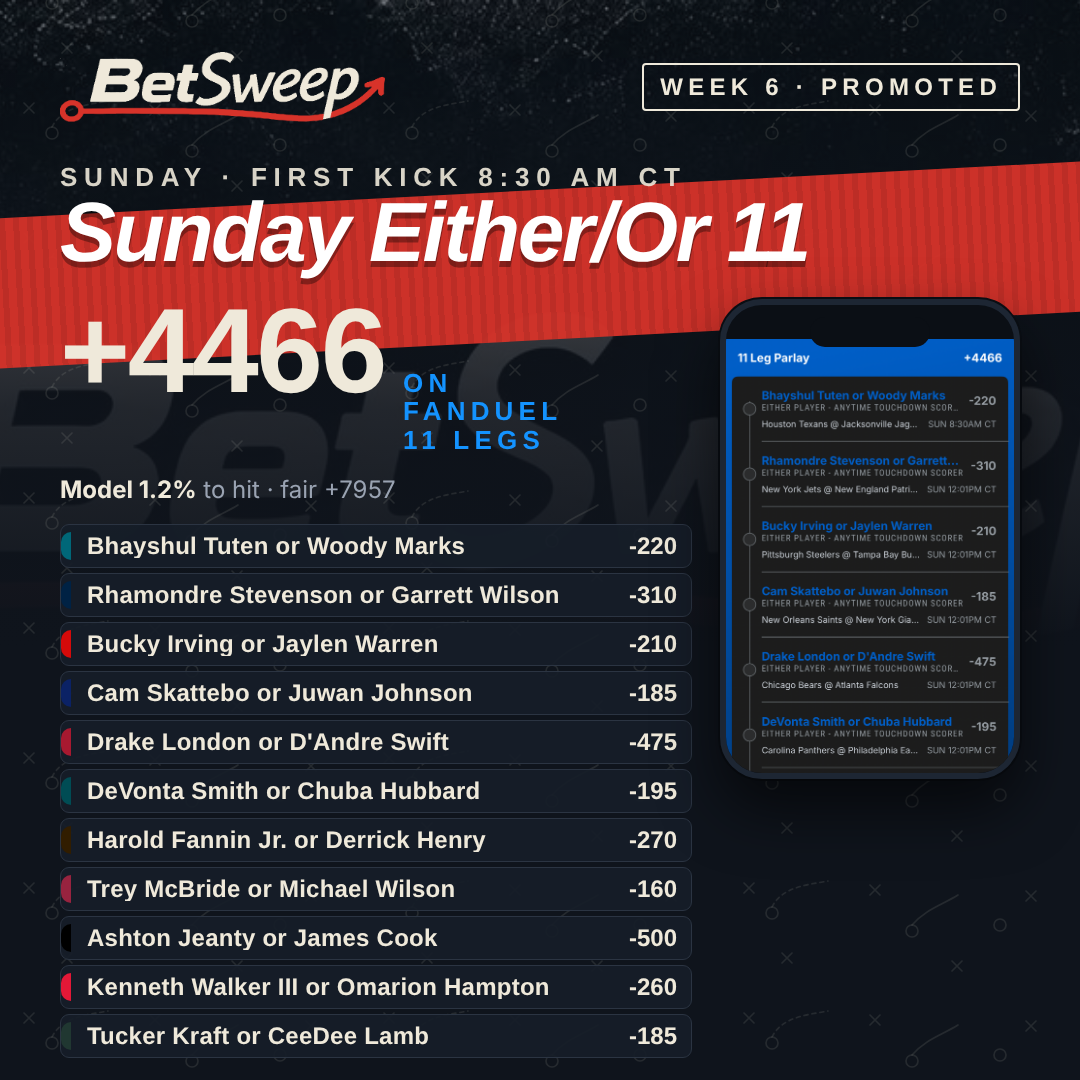
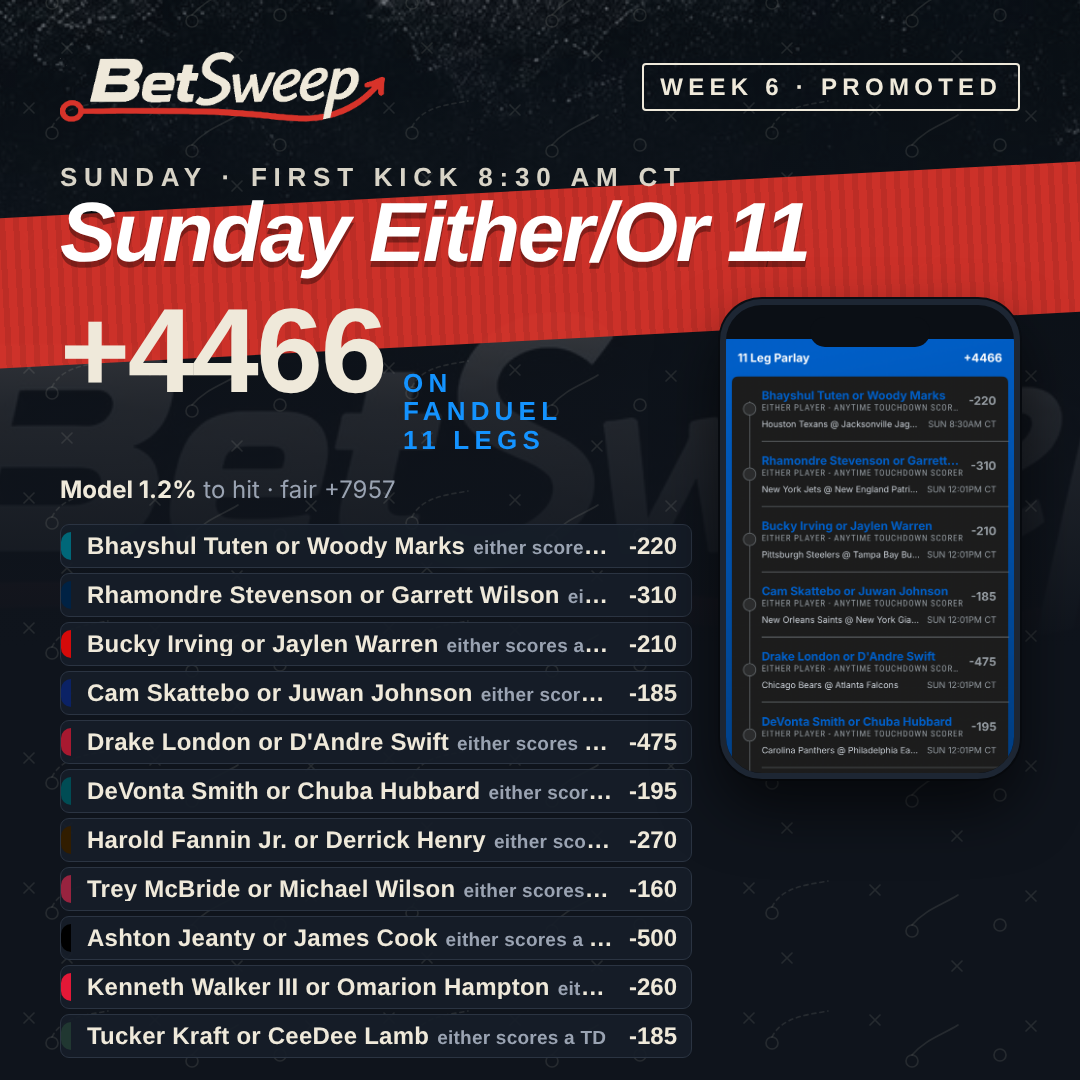
Promos: show the market on every leg for long slips (home card + poster)
Claude-Session: https://claude.ai/code/session_01Pqo4PUB5f8JqeHqFrErqwg

diff --git a/index.html b/index.html
@@ -80,7 +80,7 @@ footer .tag i{color:var(--red);font-style:normal}
 .promo .pl{list-style:none;margin:0 16px;padding:0;border-top:1px solid var(--line)}
 .promo .pl li{display:grid;grid-template-columns:minmax(0,1fr) auto;gap:2px 10px;padding:8px 0;border-bottom:1px solid var(--line);font-size:14px}
 .promo .pl b{font-family:var(--display);font-weight:700;font-size:17px;letter-spacing:.01em} .promo .pl small{color:var(--mute);font-size:12px} .promo .pl .o{font-family:var(--display);font-weight:800;font-size:17px;font-variant-numeric:tabular-nums} .promo .pl .mp{grid-column:2;font-size:11.5px;color:var(--good);text-align:right}
-.promo .pl.many li{padding:6px 0} .promo .pl.many b{font-size:15px} .promo .pl.many small{display:none} .promo .pl.many .mp{display:none}
+.promo .pl.many li{padding:5px 0} .promo .pl.many b{font-size:15px} .promo .pl.many small{font-size:11.5px} .promo .pl.many .mp{display:none}
 .promo .pf{display:grid;grid-template-columns:auto 1fr;gap:4px 14px;align-items:end;padding:12px 16px 4px}
 .promo .pf .big{font-family:var(--display);font-weight:800;font-size:44px;line-height:.9} .promo .pf .big small{display:block;font-size:10.5px;letter-spacing:.18em;text-transform:uppercase;color:#1493ff;font-weight:700;margin-bottom:4px}
 .promo .pf .md{font-size:13px;color:var(--mute);line-height:1.4} .promo .pf .md b{color:var(--ink)}
@@ -179,7 +179,7 @@ body.compact .card:not(.expanded) > .tick:not([hidden]){display:grid}
 <section class="pitch"><div class="card"><img class="mark" src="/favicon.png" alt="">
  <h1>The model's picks, <span>graded against the sportsbooks</span> every week.</h1>
  <p class="lede">BetSweep projects every NFL skill player, prices every FanDuel prop against those projections, and shows you the receipts afterward. Boards land Thursday morning, refresh through Sunday's inactives, and get graded Tuesday.</p>
- <div class="stats"><span><b>Week 6</b> on the board</span><span><b>14</b> games</span><span><b>3,310</b> FanDuel legs priced</span><span>updated Sat 10/17 3:24 PM CT</span></div>
+ <div class="stats"><span><b>Week 6</b> on the board</span><span><b>14</b> games</span><span><b>3,310</b> FanDuel legs priced</span><span>updated Sat 10/17 3:39 PM CT</span></div>
  <div class="social"><a href="https://x.com/bet_sweep" target="_blank" rel="noopener">X <small>@bet_sweep</small></a><a href="https://www.instagram.com/bet_sweep" target="_blank" rel="noopener">Instagram <small>@bet_sweep</small></a></div>
 </div></section>
 <section class="sec" id="promo"><h2 class="t">Promoted bets</h2><div class="promos"><article class="promo" data-first-ko="1792353900000" data-last-ko="1792369200000"><div class="ph"><small>Promoted</small><span class="st" data-role="pst">Pregame</span></div><h3>Sunday TD 4</h3><div class="meta">Week 6 · 4 legs</div><ul class="pl"><li><b>Puka Nacua</b><span class="o">-170</span><small>anytime TD · Sun 3:05 PM · ARI #1 vs WR TDs</small><span class="mp">model 53%</span></li><li><b>Josh Allen</b><span class="o">-175</span><small>anytime TD · Sun 3:25 PM · LV #3 vs QB rush TDs</small><span class="mp">model 56%</span></li><li><b>Kenneth Walker III</b><span class="o">-170</span><small>anytime TD · Sun 3:25 PM · LAC #7 vs RB TDs</small><span class="mp">model 60%</span></li><li><b>Javonte Williams</b><span class="o">-220</span><small>anytime TD · Sun 7:20 PM · GB #2 vs RB TDs</small><span class="mp">model 54%</span></li></ul><div class="pf"><div class="big"><small>FanDuel</small>+477</div><div class="md"><b>Model 9.6%</b> to hit · fair +939<br>Snapshot at post time; prices move.</div></div><p class="cap">Four players walking into the defenses that give up their touchdown the most: Nacua vs ARI (#1 vs WR TDs), Allen at LV (#3 vs QB rush TDs), Walker vs LAC (#7, #3 last three), Javonte at GB (#4). 15-for-17 scoring this season between them.</p><div class="pa"><a class="fd" href="https://sportsbook.fanduel.com/addToBetslip?marketId[0]=42.616225575&amp;selectionId[0]=42127532&amp;marketId[1]=42.616211797&amp;selectionId[1]=12399650&amp;marketId[2]=42.615921213&amp;selectionId[2]=40845134&amp;marketId[3]=42.615900715&amp;selectionId[3]=37101846" target="_blank" rel="noopener">Bet it on FanDuel</a><a href="https://twitter.com/intent/tweet?text=Sunday%20TD%204%20%C2%B7%20FanDuel%20%2B477%0A%E2%80%A2%20Puka%20Nacua%20anytime%20TD%20%28-170%29%0A%E2%80%A2%20Josh%20Allen%20anytime%20TD%20%28-175%29%0A%E2%80%A2%20Kenneth%20Walker%20III%20anytime%20TD%20%28-170%29%0A%E2%80%A2%20Javonte%20Williams%20anytime%20TD%20%28-220%29%0A%0Abetsweep.co" target="_blank" rel="noopener">Share on X</a><a href="/promo/6-1-feed.png" download>Post 4:5</a><a href="/promo/6-1-square.png" download>Square</a><a href="/promo/6-1-story.png" download>Story</a></div></article><article class="promo" data-first-ko="1792330200000" data-last-ko="1792369200000"><div class="ph"><small>Promoted</small><span class="st" data-role="pst">Pregame</span></div><h3>Sunday Either/Or 11</h3><div class="meta">Week 6 · 11 legs</div><ul class="pl many"><li><b>Bhayshul Tuten or Woody Marks</b><span class="o">-220</span><small>either scores a TD · Sun 8:30 AM</small><span class="mp">model 63%</span></li><li><b>Rhamondre Stevenson or Garrett Wilson</b><span class="o">-310</span><small>either scores a TD · Sun 12:00 PM</small><span class="mp">model 58%</span></li><li><b>Bucky Irving or Jaylen Warren</b><span class="o">-210</span><small>either scores a TD · Sun 12:00 PM</small><span class="mp">model 67%</span></li><li><b>Cam Skattebo or Juwan Johnson</b><span class="o">-185</span><small>either scores a TD · Sun 12:00 PM</small><span class="mp">model 60%</span></li><li><b>Drake London or D&#x27;Andre Swift</b><span class="o">-475</span><small>either scores a TD · Sun 12:00 PM</small><span class="mp">model 71%</span></li><li><b>DeVonta Smith or Chuba Hubbard</b><span class="o">-195</span><small>either scores a TD · Sun 12:00 PM</small><span class="mp">model 67%</span></li><li><b>Harold Fannin Jr. or Derrick Henry</b><span class="o">-270</span><small>either scores a TD · Sun 12:00 PM</small><span class="mp">model 72%</span></li><li><b>Trey McBride or Michael Wilson</b><span class="o">-160</span><small>either scores a TD · Sun 3:05 PM</small><span class="mp">model 68%</span></li><li><b>Ashton Jeanty or James Cook</b><span class="o">-500</span><small>either scores a TD · Sun 3:25 PM</small><span class="mp">model 75%</span></li><li><b>Kenneth Walker III or Omarion Hampton</b><span class="o">-260</span><small>either scores a TD · Sun 3:25 PM</small><span class="mp">model 77%</span></li><li><b>Tucker Kraft or CeeDee Lamb</b><span class="o">-185</span><small>either scores a TD · Sun 7:20 PM</small><span class="mp">model 62%</span></li></ul><div class="pf"><div class="big"><small>FanDuel</small>+4466</div><div class="md"><b>Model 1.2%</b> to hit · fair +7957<br>Snapshot at post time; prices move.</div></div><p class="cap">One either/or touchdown from every Sunday game, each pair picked so one of the two is still the likely scorer whichever way the game goes. Eleven legs, +4466.</p><div class="pa"><a class="fd" href="https://sportsbook.fanduel.com/addToBetslip?shareCode=mR7QhDR" target="_blank" rel="noopener">Bet it on FanDuel</a><a href="https://twitter.com/intent/tweet?text=Sunday%20Either/Or%2011%20%C2%B7%20FanDuel%20%2B4466%0A%E2%80%A2%20Bhayshul%20Tuten%20or%20Woody%20Marks%20either%20scores%20a%20TD%20%28-220%29%0A%E2%80%A2%20Rhamondre%20Stevenson%20or%20Garrett%20Wilson%20either%20scores%20a%20TD%20%28-310%29%0A%E2%80%A2%20Bucky%20Irving%20or%20Jaylen%20Warren%20either%20scores%20a%20TD%20%28-210%29%0A%E2%80%A2%20Cam%20Skattebo%20or%20Juwan%20Johnson%20either%20scores%20a%20TD%20%28-185%29%0A%E2%80%A2%20Drake%20London%20or%20D%27Andre%20Swift%20either%20scores%20a%20TD%20%28-475%29%0A%E2%80%A2%20DeVonta%20Smith%20or%20Chuba%20Hubbard%20either%20scores%20a%20TD%20%28-195%29%0A%E2%80%A2%20Harold%20Fannin%20Jr.%20or%20Derrick%20Henry%20either%20scores%20a%20TD%20%28-270%29%0A%E2%80%A2%20Trey%20McBride%20or%20Michael%20Wilson%20either%20scores%20a%20TD%20%28-160%29%0A%E2%80%A2%20Ashton%20Jeanty%20or%20James%20Cook%20either%20scores%20a%20TD%20%28-500%29%0A%E2%80%A2%20Kenneth%20Walker%20III%20or%20Omarion%20Hampton%20either%20scores%20a%20TD%20%28-260%29%0A%E2%80%A2%20Tucker%20Kraft%20or%20CeeDee%20Lamb%20either%20scores%20a%20TD%20%28-185%29%0A%0Abetsweep.co" target="_blank" rel="noopener">Share on X</a><a href="/promo/6-2-feed.png" download>Post 4:5</a><a href="/promo/6-2-square.png" download>Square</a><a href="/promo/6-2-story.png" download>Story</a></div></article><article class="promo" data-first-ko="1792342800000" data-last-ko="1792355100000"><div class="ph"><small>Promoted</small><span class="st" data-role="pst">Pregame</span></div><h3>Sunday Floor 6</h3><div class="meta">Week 6 · 6 legs</div><ul class="pl"><li><b>Justice Hill</b><span class="o">-154</span><small>10+ rushing yards · Sun 12:00 PM</small><span class="mp">model 73%</span></li><li><b>Makai Lemon</b><span class="o">-205</span><small>2+ receptions · Sun 12:00 PM</small><span class="mp">model 73%</span></li><li><b>Elic Ayomanor</b><span class="o">-340</span><small>5+ receiving yards · Sun 12:00 PM</small><span class="mp">model 86%</span></li><li><b>Juwan Johnson</b><span class="o">-330</span><small>25+ receiving yards · Sun 12:00 PM</small><span class="mp">model 75%</span></li><li><b>Bucky Irving</b><span class="o">-290</span><small>5+ receiving yards · Sun 12:00 PM</small><span class="mp">model 78%</span></li><li><b>Cyrus Allen</b><span class="o">-154</span><small>10+ receiving yards · Sun 3:25 PM</small><span class="mp">model 30%</span></li></ul><div class="pf"><div class="big"><small>FanDuel</small>+786</div><div class="md"><b>Model 8.1%</b> to hit · fair +1137<br>Snapshot at post time; prices move.</div></div><p class="cap">Six legs, one game each, matchup first: Hill vs a #7 RB-rush defense, Lemon 2+ catches (4 of 5), Ayomanor 5+ (5 of 5), Juwan Johnson 25+ (4 of 5, all 53+), Irving 5+ receiving vs the #5 defense for RB catches, and the swing: Cyrus Allen into Rashee Rice&#x27;s and Tyquan Thornton&#x27;s snaps. Five the data likes, one we like.</p><div class="pa"><a class="fd" href="https://sportsbook.fanduel.com/addToBetslip?marketId[0]=42.617002810&amp;selectionId[0]=73482232&amp;marketId[1]=42.617048983&amp;selectionId[1]=102621408&amp;marketId[2]=42.616250683&amp;selectionId[2]=88090459&amp;marketId[3]=42.616234261&amp;selectionId[3]=41092174&amp;marketId[4]=42.616465975&amp;selectionId[4]=73619340&amp;marketId[5]=42.616848381&amp;selectionId[5]=102831608" target="_blank" rel="noopener">Bet it on FanDuel</a><a href="https://twitter.com/intent/tweet?text=Sunday%20Floor%206%20%C2%B7%20FanDuel%20%2B786%0A%E2%80%A2%20Justice%20Hill%2010%2B%20rushing%20yards%20%28-154%29%0A%E2%80%A2%20Makai%20Lemon%202%2B%20receptions%20%28-205%29%0A%E2%80%A2%20Elic%20Ayomanor%205%2B%20receiving%20yards%20%28-340%29%0A%E2%80%A2%20Juwan%20Johnson%2025%2B%20receiving%20yards%20%28-330%29%0A%E2%80%A2%20Bucky%20Irving%205%2B%20receiving%20yards%20%28-290%29%0A%E2%80%A2%20Cyrus%20Allen%2010%2B%20receiving%20yards%20%28-154%29%0A%0Abetsweep.co" target="_blank" rel="noopener">Share on X</a><a href="/promo/6-3-feed.png" download>Post 4:5</a><a href="/promo/6-3-square.png" download>Square</a><a href="/promo/6-3-story.png" download>Story</a></div></article><article class="promo" data-first-ko="1792330200000" data-last-ko="1792369200000"><div class="ph"><small>Promoted</small><span class="st" data-role="pst">Pregame</span></div><h3>Sunday Gauntlet</h3><div class="meta">Week 6 · 12 legs</div><ul class="pl many"><li><b>Xavier Hutchinson</b><span class="o">-114</span><small>15+ receiving yards · Sun 8:30 AM</small><span class="mp">model 74%</span></li><li><b>Zay Flowers</b><span class="o">-290</span><small>40+ receiving yards · Sun 12:00 PM</small><span class="mp">model 88%</span></li><li><b>Tetairoa McMillan</b><span class="o">-235</span><small>50+ receiving yards · Sun 12:00 PM</small><span class="mp">model 72%</span></li><li><b>Rome Odunze</b><span class="o">-310</span><small>25+ receiving yards · Sun 12:00 PM</small><span class="mp">model 79%</span></li><li><b>Cam Skattebo</b><span class="o">-320</span><small>5+ receiving yards · Sun 12:00 PM</small><span class="mp">model 78%</span></li><li><b>Hunter Henry</b><span class="o">-300</span><small>20+ receiving yards · Sun 12:00 PM</small><span class="mp">model 72%</span></li><li><b>Bucky Irving</b><span class="o">-172</span><small>2+ receptions · Sun 12:00 PM</small><span class="mp">model 74%</span></li><li><b>Calvin Ridley</b><span class="o">-154</span><small>10+ receiving yards · Sun 12:00 PM</small><span class="mp">model 79%</span></li><li><b>Tyler Higbee</b><span class="o">-310</span><small>20+ receiving yards · Sun 3:05 PM</small><span class="mp">model 72%</span></li><li><b>Tre Tucker</b><span class="o">-290</span><small>25+ receiving yards · Sun 3:25 PM</small><span class="mp">model 75%</span></li><li><b>Oronde Gadsden II</b><span class="o">-178</span><small>10+ receiving yards · Sun 3:25 PM</small><span class="mp">model 80%</span></li><li><b>Christian Watson</b><span class="o">-340</span><small>50+ receiving yards · Sun 7:20 PM</small><span class="mp">model 72%</span></li></ul><div class="pf"><div class="big"><small>FanDuel</small>+7710</div><div class="md"><b>Model 3.8%</b> to hit · fair +2547<br>Snapshot at post time; prices move.</div></div><p class="cap">Twelve games, twelve legs, one from each. Every leg had to clear the same bar: model 70%+, a matchup or a projection well above the line, hit in 3 of the last 5, no flags. Likely legs stacked into a moonshot.</p><div class="pa"><a class="fd" href="https://sportsbook.fanduel.com/addToBetslip?marketId[0]=42.616785753&amp;selectionId[0]=41075117&amp;marketId[1]=42.617002812&amp;selectionId[1]=49181571&amp;marketId[2]=42.616529867&amp;selectionId[2]=50573817&amp;marketId[3]=42.616120846&amp;selectionId[3]=48587070&amp;marketId[4]=42.616234258&amp;selectionId[4]=88246532&amp;marketId[5]=42.616815477&amp;selectionId[5]=73619949&amp;marketId[6]=42.616465976&amp;selectionId[6]=49541847&amp;marketId[7]=42.616250682&amp;selectionId[7]=71942749&amp;marketId[8]=42.616234749&amp;selectionId[8]=78711104&amp;marketId[9]=42.616214164&amp;selectionId[9]=49640102&amp;marketId[10]=42.616849025&amp;selectionId[10]=89154789&amp;marketId[11]=42.615901996&amp;selectionId[11]=48614471" target="_blank" rel="noopener">Bet it on FanDuel</a><a href="https://twitter.com/intent/tweet?text=Sunday%20Gauntlet%20%C2%B7%20FanDuel%20%2B7710%0A%E2%80%A2%20Xavier%20Hutchinson%2015%2B%20receiving%20yards%20%28-114%29%0A%E2%80%A2%20Zay%20Flowers%2040%2B%20receiving%20yards%20%28-290%29%0A%E2%80%A2%20Tetairoa%20McMillan%2050%2B%20receiving%20yards%20%28-235%29%0A%E2%80%A2%20Rome%20Odunze%2025%2B%20receiving%20yards%20%28-310%29%0A%E2%80%A2%20Cam%20Skattebo%205%2B%20receiving%20yards%20%28-320%29%0A%E2%80%A2%20Hunter%20Henry%2020%2B%20receiving%20yards%20%28-300%29%0A%E2%80%A2%20Bucky%20Irving%202%2B%20receptions%20%28-172%29%0A%E2%80%A2%20Calvin%20Ridley%2010%2B%20receiving%20yards%20%28-154%29%0A%E2%80%A2%20Tyler%20Higbee%2020%2B%20receiving%20yards%20%28-310%29%0A%E2%80%A2%20Tre%20Tucker%2025%2B%20receiving%20yards%20%28-290%29%0A%E2%80%A2%20Oronde%20Gadsden%20II%2010%2B%20receiving%20yards%20%28-178%29%0A%E2%80%A2%20Christian%20Watson%2050%2B%20receiving%20yards%20%28-340%29%0A%0Abetsweep.co" target="_blank" rel="noopener">Share on X</a><a href="/promo/6-4-feed.png" download>Post 4:5</a><a href="/promo/6-4-square.png" download>Square</a><a href="/promo/6-4-story.png" download>Story</a></div></article></div><p class="none" style="margin-top:8px;font-size:12.5px">The slips we post on X and Instagram, graded Tuesday like everything else. One tap loads the whole slip on FanDuel.</p></section>

diff --git a/sw.js b/sw.js
@@ -1,6 +1,6 @@
 // BetSweep service worker: app shell cached for instant open; pages are network-first so the data is always this build's,
-// with the last good copy served when the connection drops (stadium wifi). Version: 202610171524
-var V = 'bs-202610171524', SHELL = ['/', '/boards/', '/build/', '/live/', '/team/', '/firsttd/', '/dfs/', '/receipts/', '/season/', '/offline.html', '/wordmark.png', '/wordmark-ink.png', '/favicon.png', '/app/icon-192.png'];
+// with the last good copy served when the connection drops (stadium wifi). Version: 202610171539
+var V = 'bs-202610171539', SHELL = ['/', '/boards/', '/build/', '/live/', '/team/', '/firsttd/', '/dfs/', '/receipts/', '/season/', '/offline.html', '/wordmark.png', '/wordmark-ink.png', '/favicon.png', '/app/icon-192.png'];
 self.addEventListener('install', function(e){ e.waitUntil(caches.open(V).then(function(c){ return Promise.all(SHELL.map(function(u){ return c.add(u).catch(function(){}); })); }).then(function(){ return self.skipWaiting(); })); });
 self.addEventListener('activate', function(e){ e.waitUntil(caches.keys().then(function(ks){ return Promise.all(ks.filter(function(k){ return k !== V; }).map(function(k){ return caches.delete(k); })); }).then(function(){ return self.clients.claim(); })); });
 self.addEventListener('fetch', function(e){
